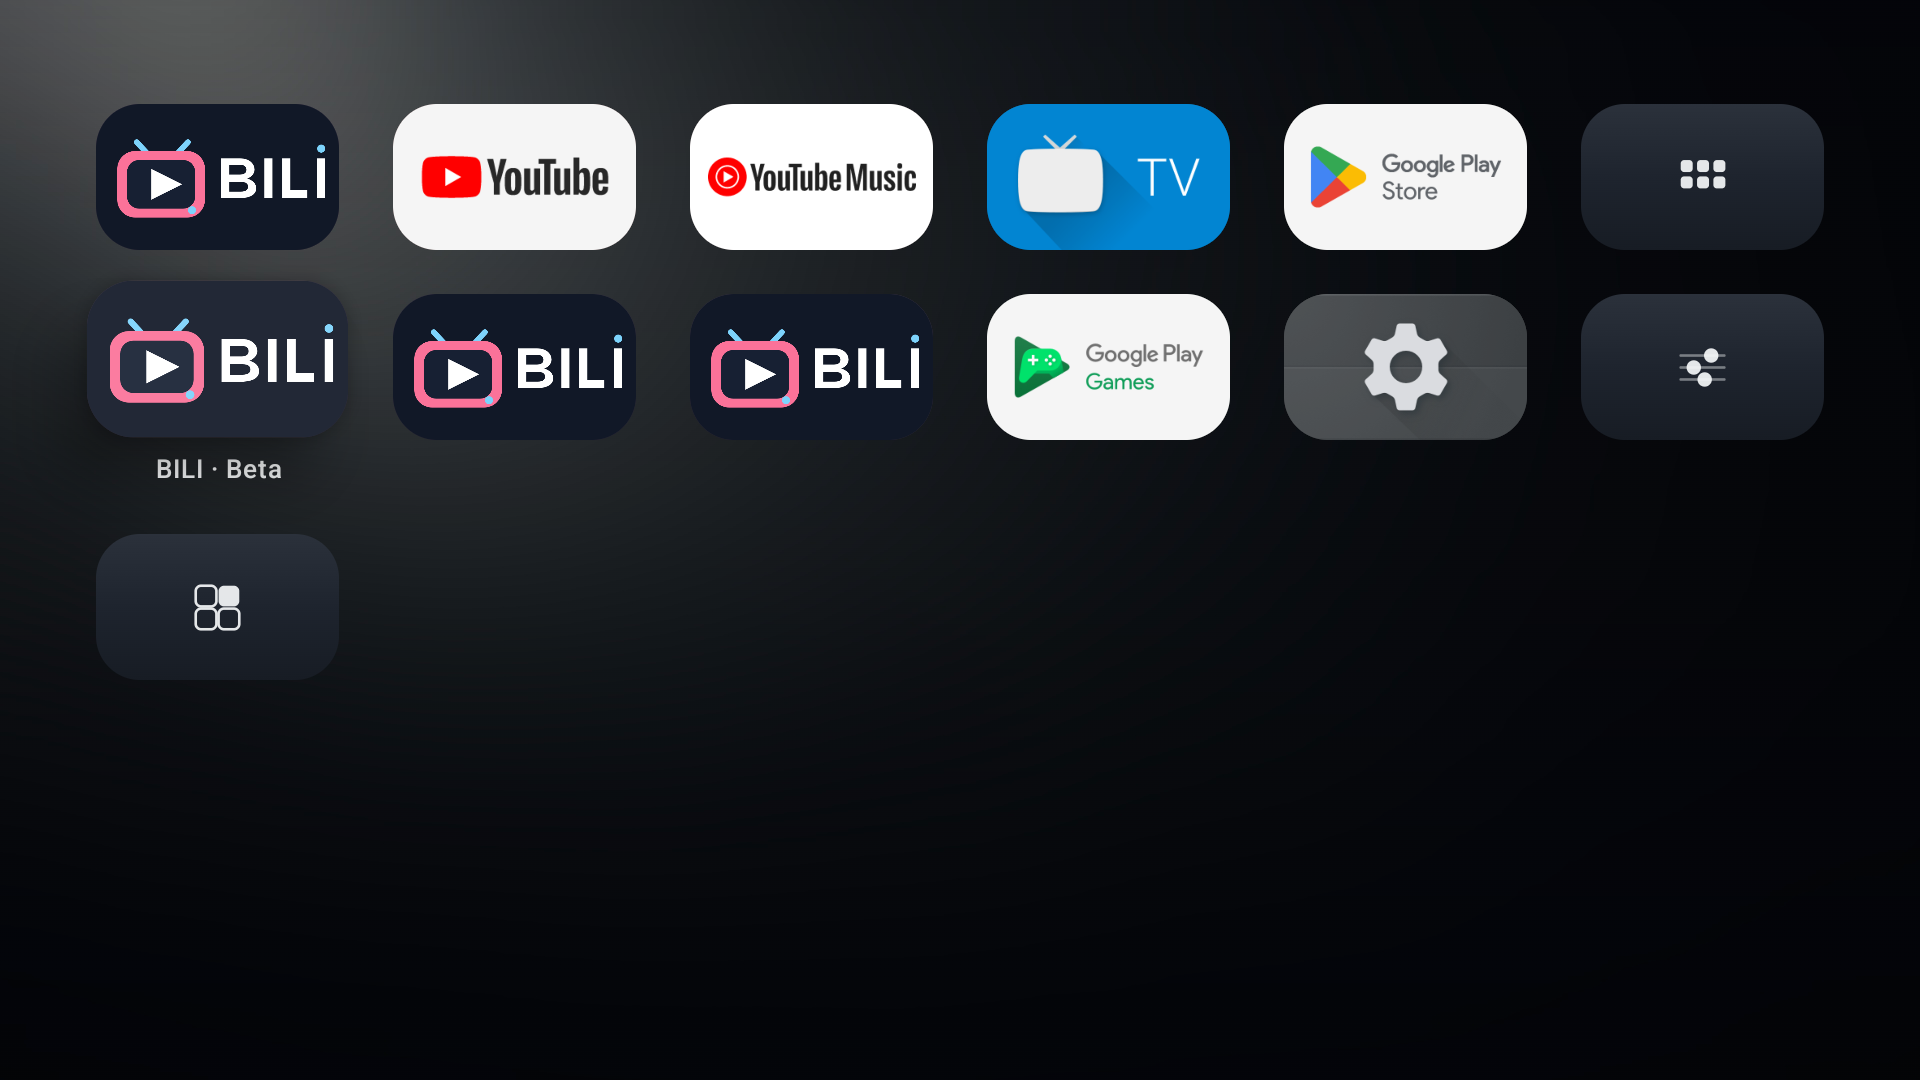
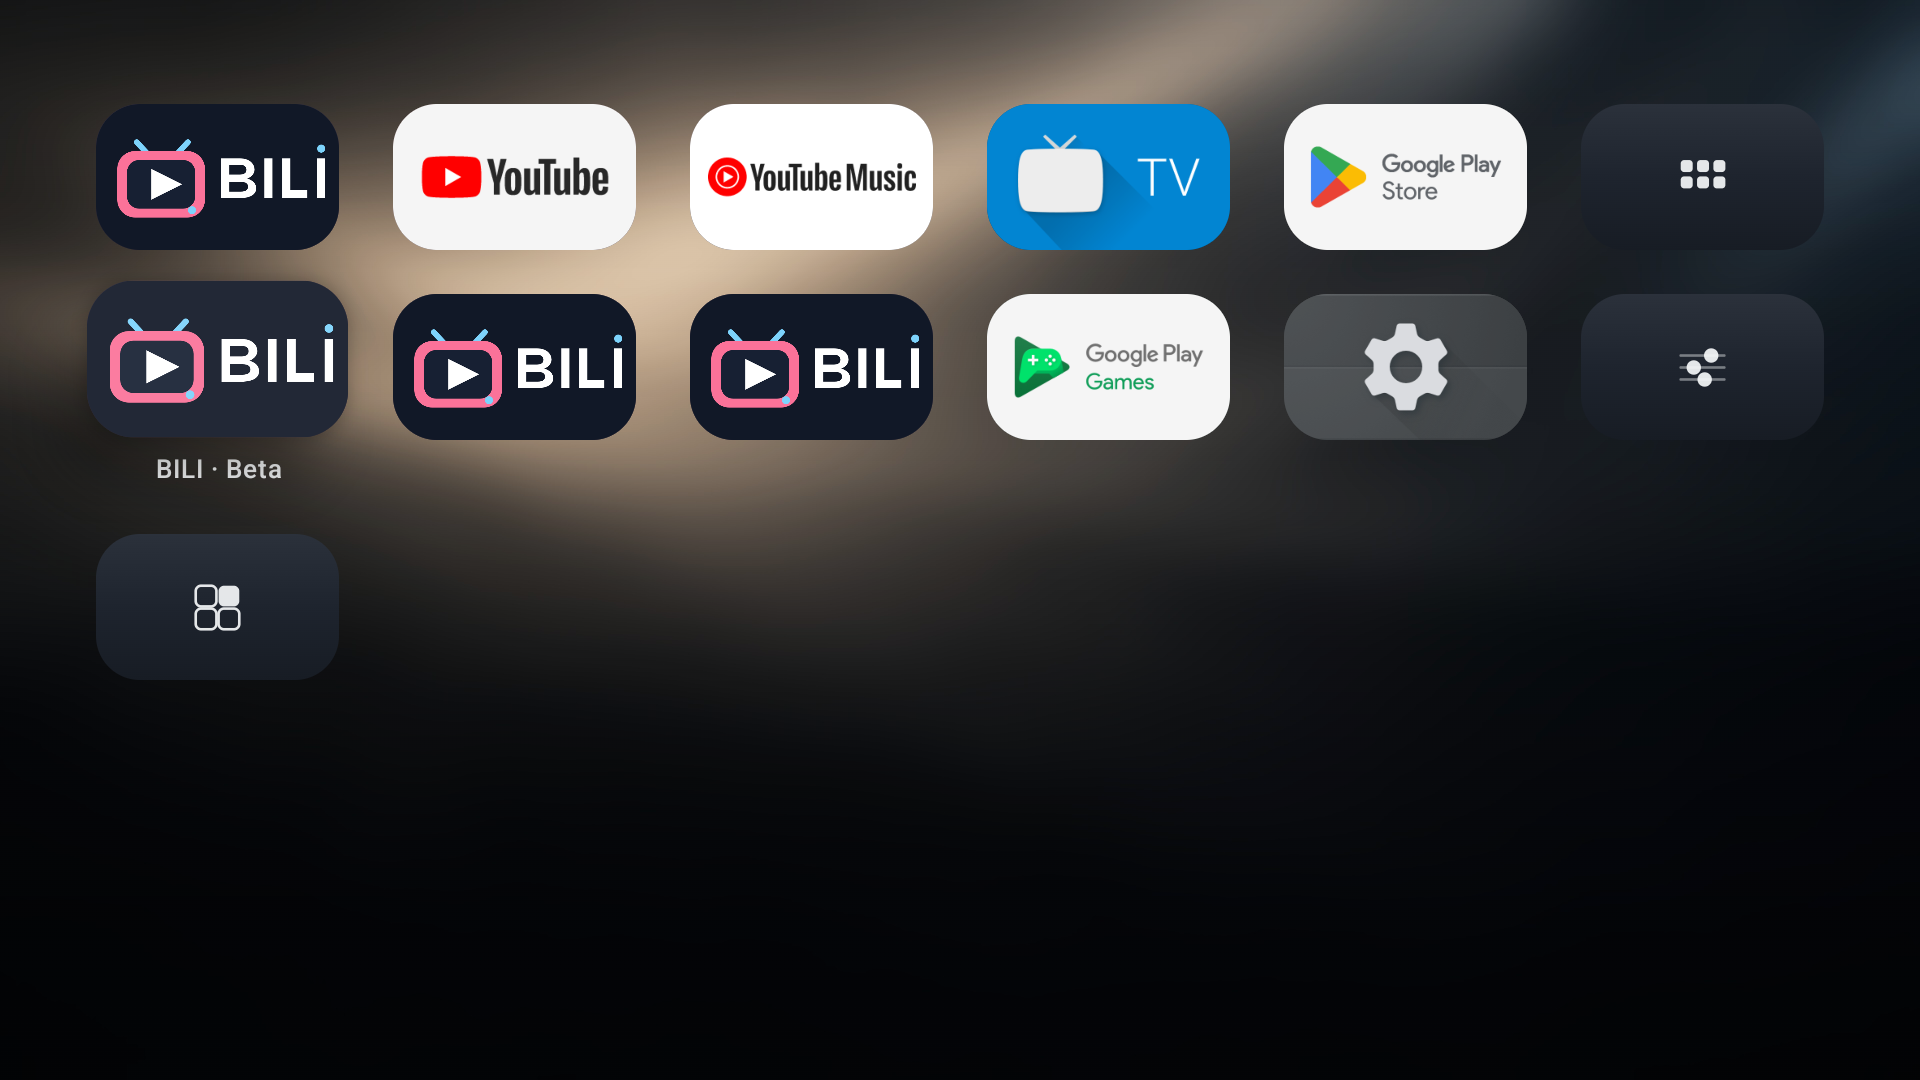
feat: 默认背景换成暖琥珀方向光（v3）
- 源稿改用项目所有者提供的暖光素材，替换 v2 的冷调雾面石板
- 模糊版高斯半径 76 → 28，保留光束边缘与细颗粒
- 同步设计文档、第三方声明、导出脚本与展开库/设置页实拍截图

Changed region(s): [[0.0938, 0.0, 1.0, 0.5806], [0.0, 0.0, 0.2812, 0.2139], [0.0, 0.2444, 0.0625, 0.3667]]

diff --git a/docs/validation.md b/docs/validation.md
@@ -39,15 +39,16 @@
 
 这不是一次完整的视觉验收：实体电视、4K与长时间运行的画面表现仍未验收。
 
-## 默认背景 v2
+## 默认背景 v3
 
-原默认背景是全画面中灰的蓝调渐层：明度中庸、左上钴蓝与右下黄铜两个光极等权、没有材质证据，展开库时读作“默认渐变”。v2 换成暗场单一光源的雾面石板——左上低角度光揭示细微矿物颗粒、中段入灰、下三分近黑，色相与界面冷白同族。源稿、提示词与导出参数见 [design/assets/ambient-source-v2.md](design/assets/ambient-source-v2.md)。
+原默认背景是全画面中灰的蓝调渐层：明度中庸、左上钴蓝与右下黄铜两个光极等权、没有材质证据，展开库时读作“默认渐变”。v2 一度改为暗场雾面石板；v3 换成暗场里一束暖琥珀方向光——左上斜扫的亮带、右上一段冷蓝余光、下三分近黑，应用图块浮在光带之上，与界面冷白形成冷暖对照。源稿、来源与导出参数见 [design/assets/ambient-source-v3.md](design/assets/ambient-source-v3.md)。
 
-- 导出仍走 `design/export-background.cjs`：源图外扩到2200×1238后居中裁1920×1080，模糊版sigma76px。清晰版297KB，模糊版63KB。
+- 导出仍走 `design/export-background.cjs`：源图外扩到2200×1238后居中裁1920×1080；模糊版sigma28px（v2 为76px，保留光束形状与细颗粒）。清晰版238KB，模糊版113KB。
 - 构建通过（assembleDebug、单测、lint、androidTest编译）；`install -r`覆盖安装，未清空数据。
-- 模拟器（`emulator-5554`，1920×1080）实拍首页、展开网格、设置页：展开时壁纸退为底场，应用图块是画面唯一亮物；下三分近黑处静帧未观察到色带。
-- 背景模糊开启与关闭两种资源都实拍核对，关闭时可见颗粒材质；核对后把偏好恢复为默认的开启。
-- `docs/screenshots/apps.png`、`docs/screenshots/settings.png`已用本次实拍替换；未在实体电视、4K与长时间运行下复核。
+- 模拟器（`emulator-5554`，1920×1080）实拍首页、展开网格、设置页：展开时壁纸退为底场，光带落在前两行图块之后，下三分近黑处静帧未观察到色带；设置页罩层为100%，暖光压住标题区但文字对比不变。
+- 背景模糊开启与关闭两种资源都实拍核对：关闭时可见光束边缘与细颗粒，开启时只剩雾化光带；核对后把偏好恢复为默认的开启。
+- 风格边界：暖琥珀配冷白界面是有意的冷暖对照，不是未调色的偏差；若嫌光带抢眼，可用“背景亮度=较暗”（整屏26%黑罩）或换成其他内置背景。
+- `docs/screenshots/apps.png`、`docs/screenshots/settings.png`已用本次实拍替换；首页沿用上一版（首屏剧照铺满，壁纸不可见）。未在实体电视、4K与长时间运行下复核。
 
 ## 遥控器覆盖
 

diff --git a/docs/design.md b/docs/design.md
@@ -30,7 +30,7 @@ Luma TV 以 tvOS 的空间比例、简洁布局及焦点反馈为参考，使用
 
 ## 背景与资源
 
-默认背景是一面暗场里的雾面石板：左上一束低角度方向光揭示细微矿物颗粒，中段转灰，下三分接近纯黑，色相与界面冷白同族。展开网格时它作为底场，让应用图块成为画面里唯一的亮物。源稿由生成式图像工具制作，实际1672×941；清晰版与模糊版使用相同裁切。`design/export-background.cjs` 将源图外扩、对模糊版执行sigma76px高斯模糊，再导出1920×1080 JPEG，避免边缘黑边。工具需要Sharp，仅用于设计导出，不是Android运行依赖。
+默认背景是暗场里的一束暖琥珀光：它从左上斜扫下来，在雾面墙上压出一条带方向的亮带，右上留一段冷蓝余光，下三分接近纯黑。它与界面冷白是有意的冷暖对照，展开网格时作为底场，让应用图块成为画面里唯一的亮物。源稿由项目所有者提供，实际1672×941；清晰版与模糊版使用相同裁切。`design/export-background.cjs` 将源图外扩、对模糊版执行sigma28px高斯模糊，再导出1920×1080 JPEG，避免边缘黑边。工具需要Sharp，仅用于设计导出，不是Android运行依赖。
 
 Android在IO线程解码并缓存默认图片，不逐帧执行全屏模糊。其他内置背景和导入图片使用三次滑动盒式滤波近似高斯，宽度上限1280，API26+可用。首页默认背景罩层更浅（其他页面罩层强度的22%），因为首屏剧照会把它盖住、展开时它要透出来当底场。首屏剧照覆盖背景并在其上叠加全屏电影感渐变罩层，顶部与底部更深、中段更淡；展开网格时剧照完全淡出，只留壁纸当底场。不使用Apple私有材质，也没有单独的实时backdrop blur——dock的磨砂是把剧照缩到160×90后按比例切出dock区域再拉伸，属于近似。
 

diff --git a/design/assets/ambient-source-v3.md b/design/assets/ambient-source-v3.md
@@ -1,0 +1,9 @@
+# Luma TV 背景源稿 v3
+
+来源：项目所有者为本项目提供的图像（2026-10-22 加入仓库），用作默认背景。非 Apple 壁纸、图标或参考照片。
+
+原图：`design/assets/ambient-source-v3.png`，实际1672×941。设计用途：默认高斯模糊背景的光影来源，关闭模糊时直接使用原图。
+
+内容：暖琥珀色光束从左上斜扫过暗场，在雾面墙上压出一条有方向的亮带，右上留一段冷蓝余光，下三分接近纯黑。取代 v2 的雾面石板：石板安静，但冷暖同族的处理让展开库偏“冷、远”；v3 用一束有方向的暖光给暗场一个房间感，应用图块浮在光带之上，与界面冷白形成冷暖对照。风格取舍记录在 [docs/validation.md](../../docs/validation.md)。
+
+导出：`design/export-background.cjs` 使用Sharp将源图外扩到2200×1238，清晰版与模糊版按相同居中裁切取1920×1080，模糊版执行sigma28px高斯模糊（v2 为76px；v3 的价值在光束边缘与细颗粒，高斯半径过大就只剩一团暖雾）。默认资源是完整1080p缓存，不是实时模糊或4K原生素材。边缘外扩避免透明/黑边。其他背景和导入图片在Android IO线程使用三次滑动盒式滤波近似高斯，并缓存结果，API26+可用。
